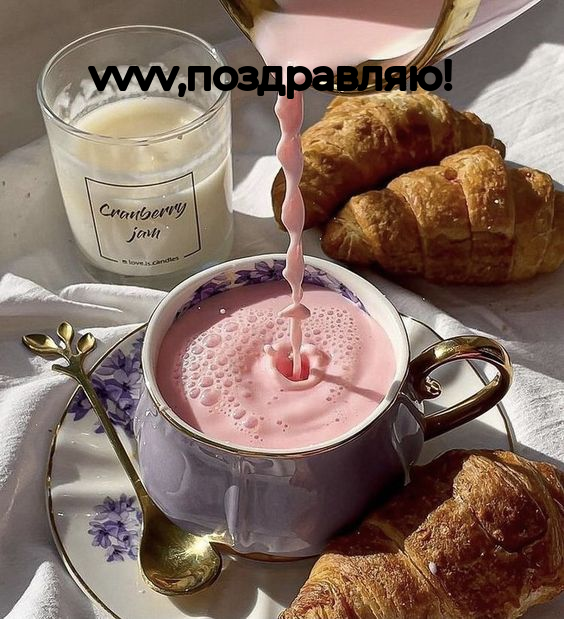
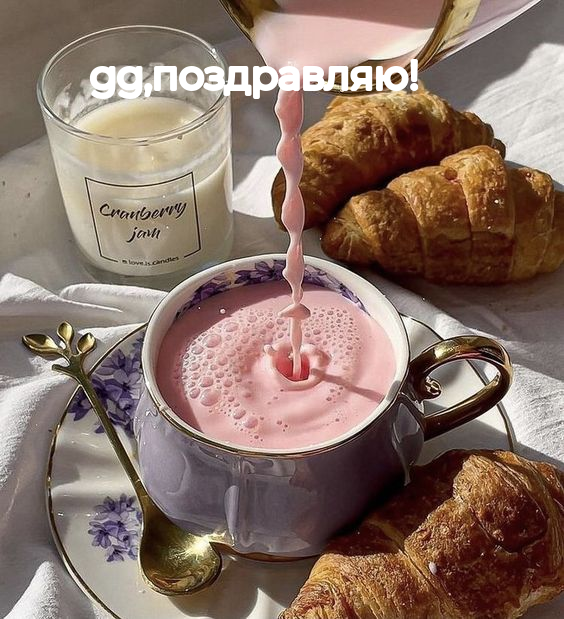
8

Changed region(s): [[0.1507, 0.0921, 0.8138, 0.1842]]

diff --git a/lab8/3.py b/lab8/3.py
@@ -1,23 +1,16 @@
 from PIL import Image,ImageDraw,ImageFont
-import numpy as np
-
-
 img = Image.open('picture.jpg')
-img_arr = np.array(img) #Изображения преобразуются в массив Numpy в формате высоты, ширины, канала.
-
-img_arr[0: 400, 0: 200] = (0, 0, 0) #мы удалили бы пиксели в области от (0,0) до (400, 200) (верхняя левая сторона)
-img = Image.fromarray(img_arr) #создает изображение в памяти из объекта obj
+img_crop=img.crop((0,30,564,591))
+img_crop.save('newpicture.jpg')
 name=input('Кого вы хотите поздравить? ')
-w=564
-h=619
 draw_text = ImageDraw.Draw(img) #изображения для рисования
 myFont = ImageFont.truetype('Montserrat-Regular.ttf', 40) # подключаем шрифт
 draw_text.text(
-    (50,50), #расположение
-    '{},поздравляю!'.format(name),
+    (90,50), #расположение
+    '{},поздравляю!'.format(name), #форматирование строк
     font=myFont,
-    stroke_width=2,
-    fill=(0, 0, 255),
+    stroke_width=2, #Ширина обводки текста.
+    fill=(255, 255, 255),
     )
 img.show()
 img.save('newpicture.png')

diff --git a/lab8/main.py b/lab8/main.py
@@ -1,10 +1,5 @@
 from PIL import Image
-import numpy as np
-
 img = Image.open('picture.jpg')
-img_arr = np.array(img) #Изображения преобразуются в массив Numpy в формате высоты, ширины, канала.
-
-img_arr[0: 400, 0: 200] = (0, 0, 0) #мы удалили бы пиксели в области от (0,0) до (400, 200) (верхняя левая сторона)
-img = Image.fromarray(img_arr)
-img.show()
-img.save('newpicture.jpg')
+img_crop=img.crop((0,30,564,591))
+img_crop.show()
+img_crop.save('newpicture.jpg')
